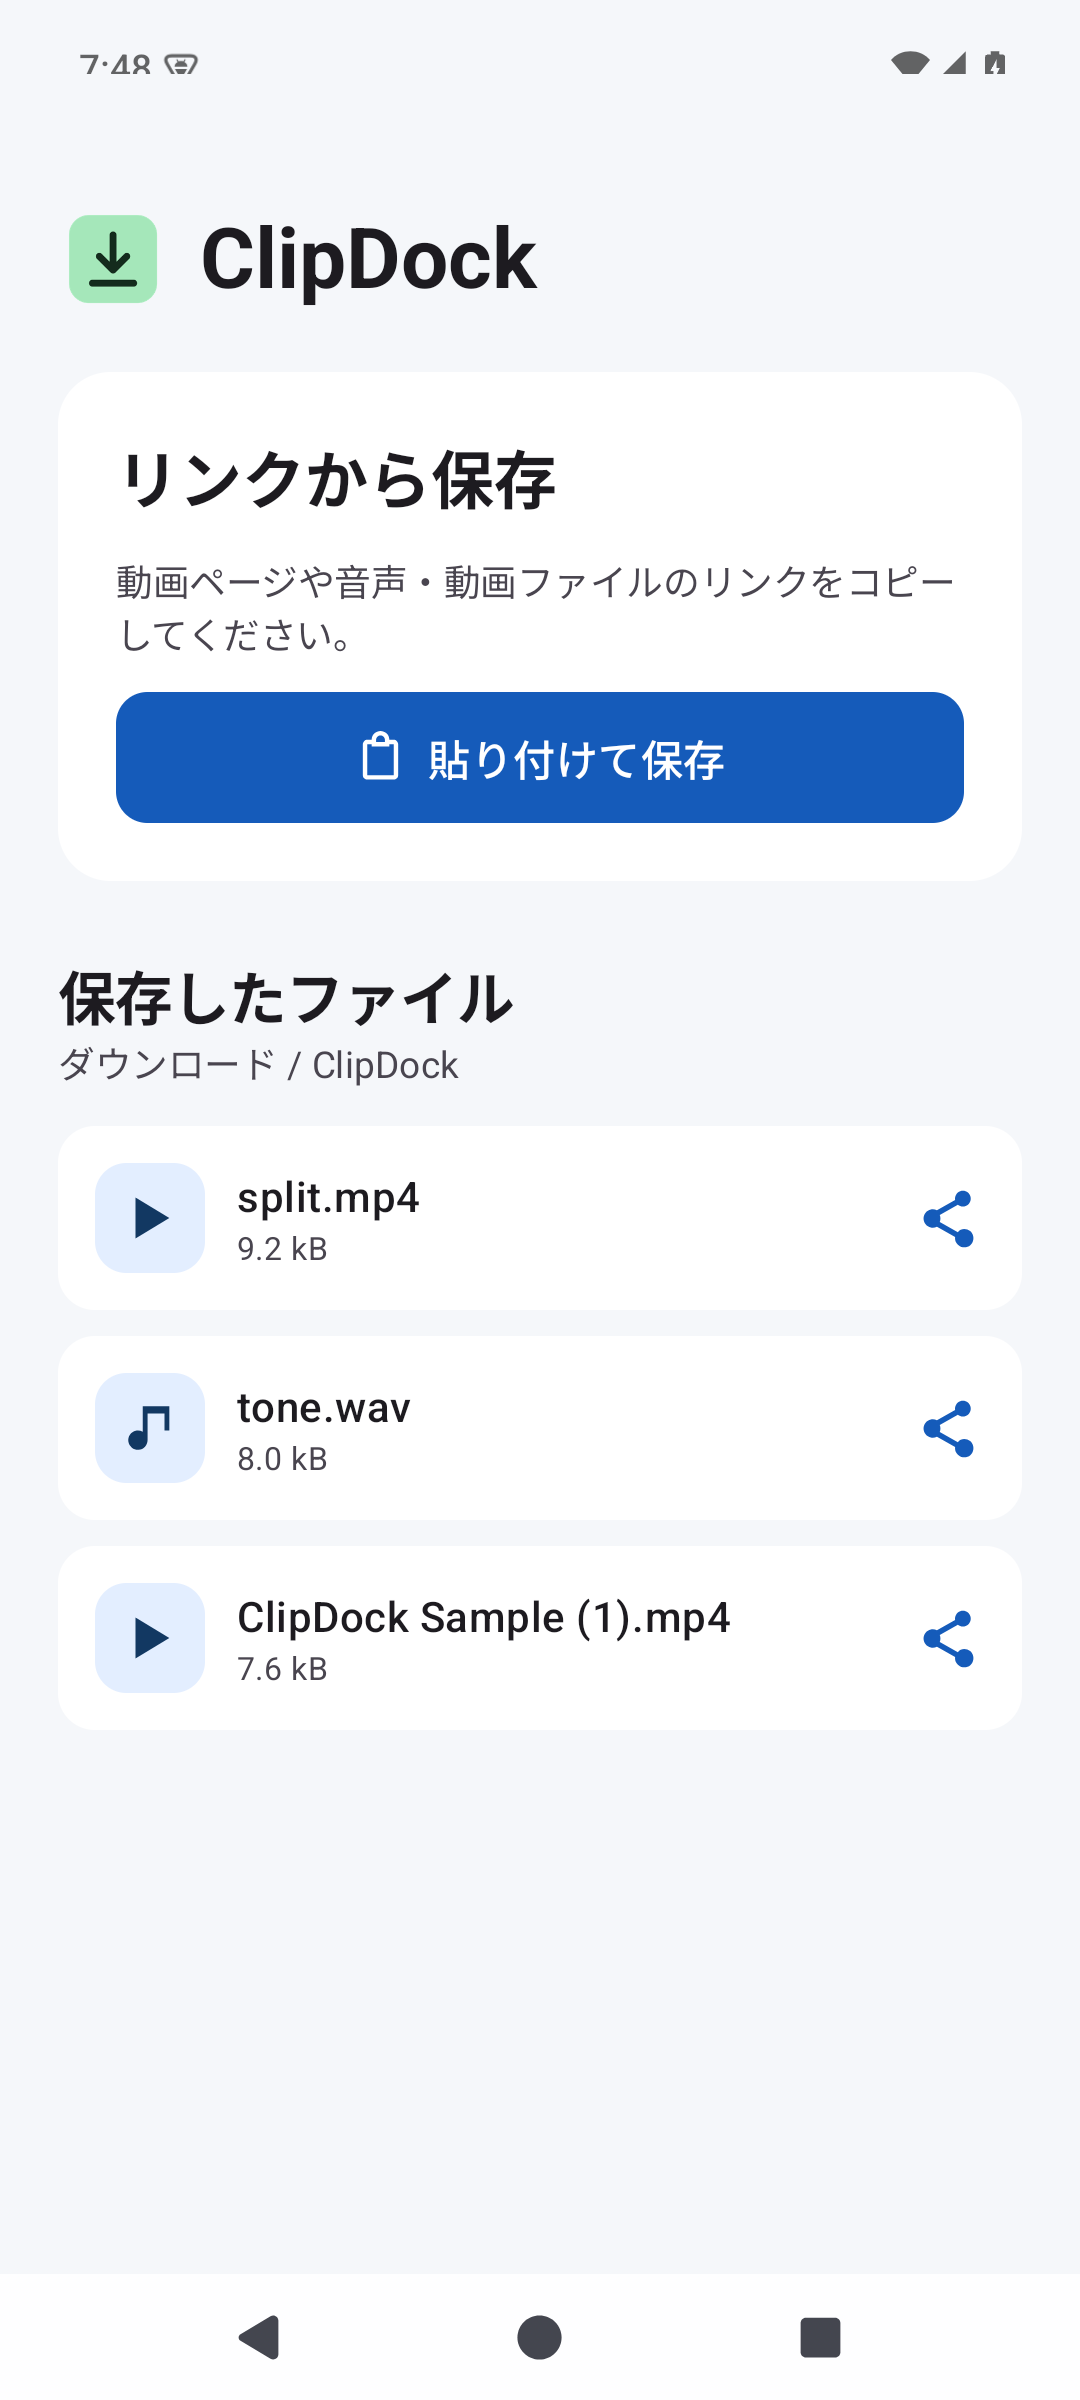
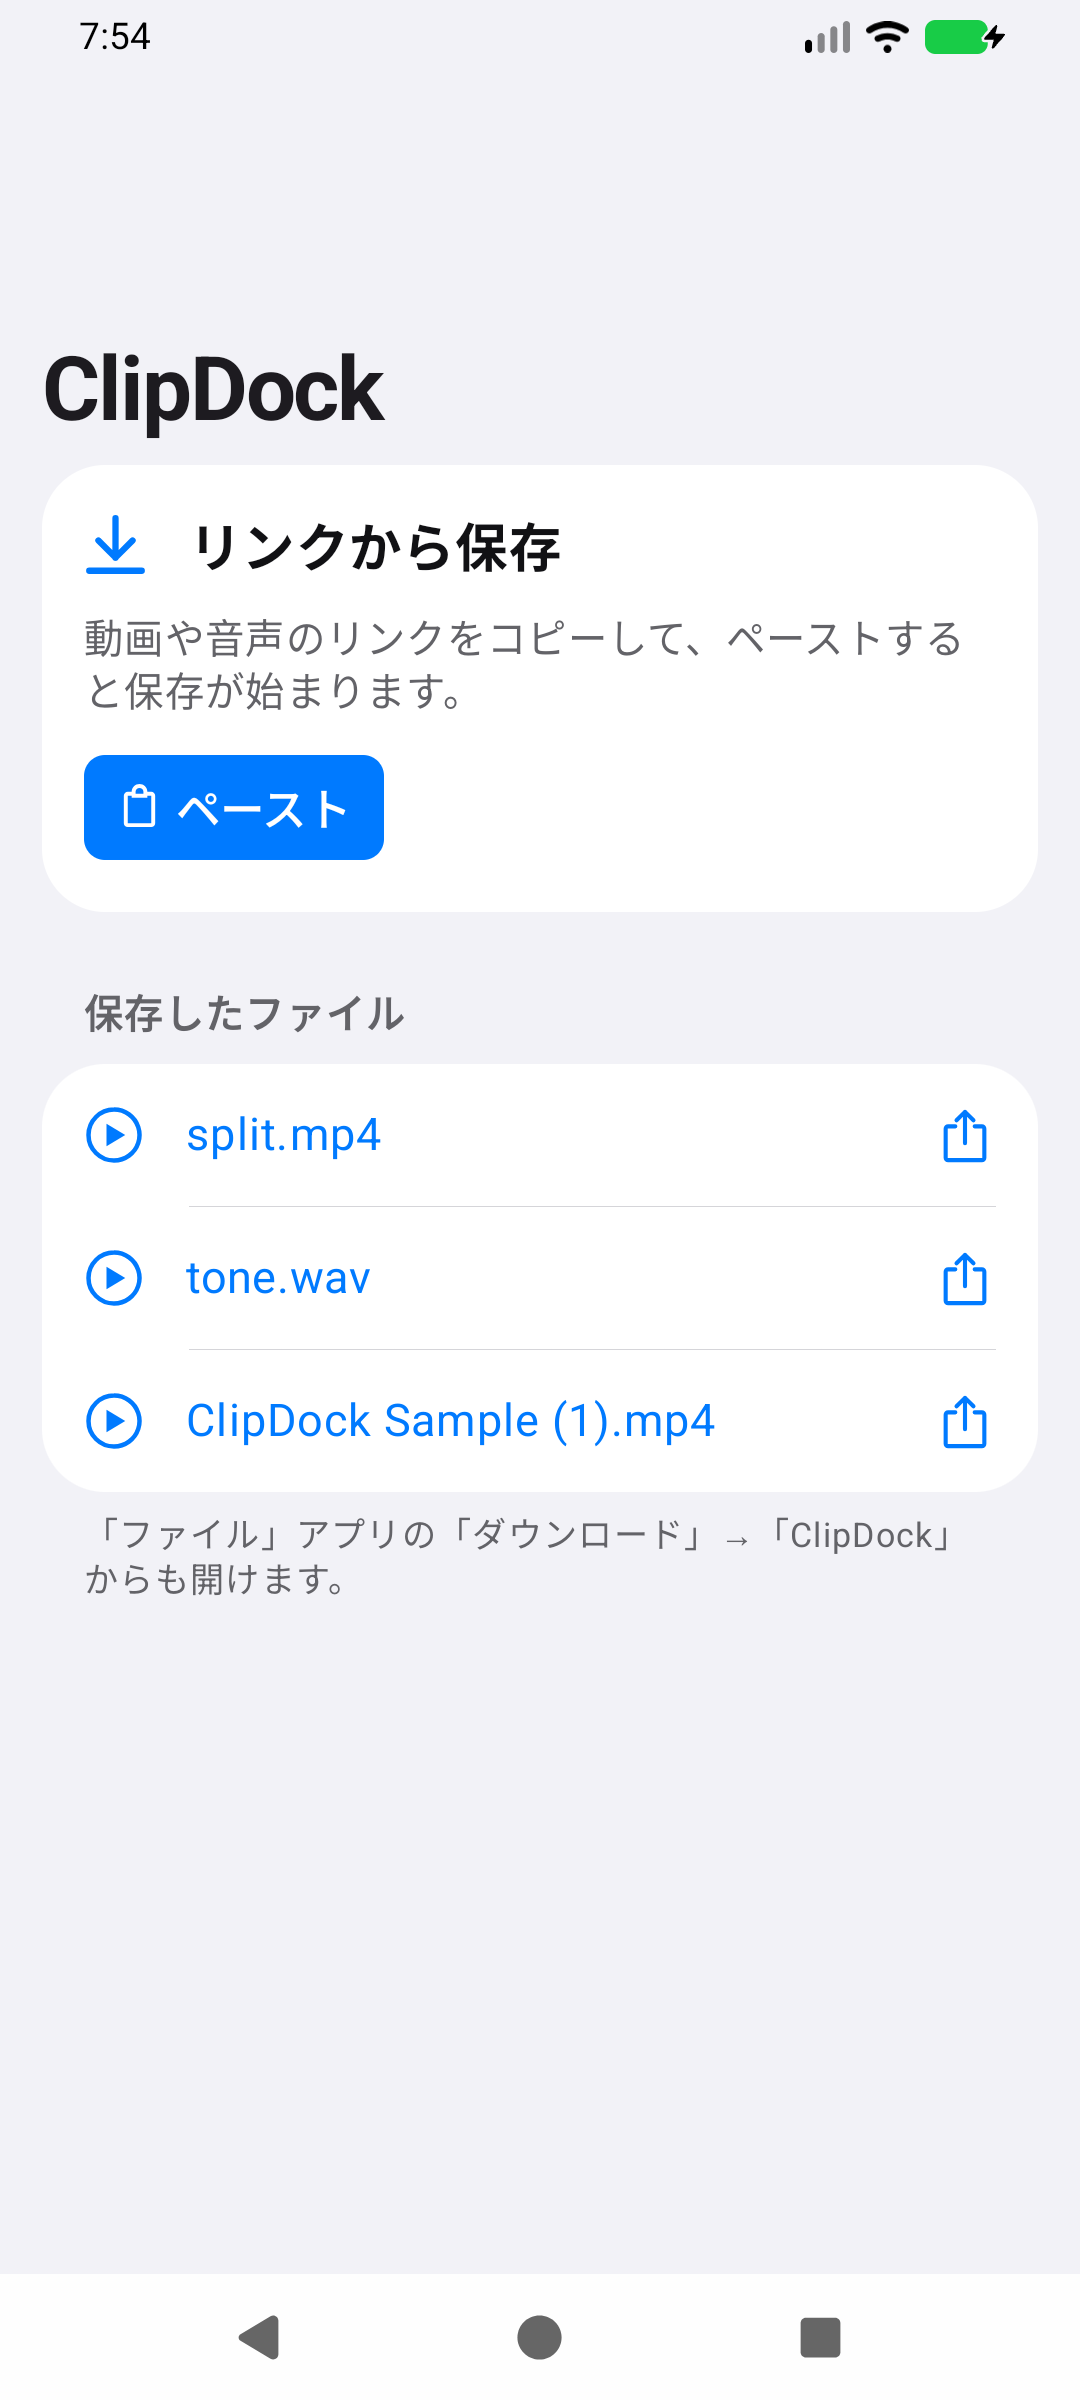
Show the verified Android screen and link the APK build instructions

diff --git a/README.md b/README.md
@@ -203,4 +203,6 @@ macOS版では、設定・履歴・エンジンを `~/Library/Application Suppor
 
 iPhone版は `src/ClipDock.iOS` にあります。ビルド方法とIPAの作成手順は[配布手順](docs/distribution.md#iphone版)を参照してください。
 
+Android版は `src/ClipDock.Android` にあります。APKのビルド・署名とエミュレーターでの確認方法は[Android版の配布手順](docs/distribution.md#android版)を参照してください。
+
 同梱ソフトウェアのライセンスは [THIRD-PARTY.md](THIRD-PARTY.md) を参照してください。
